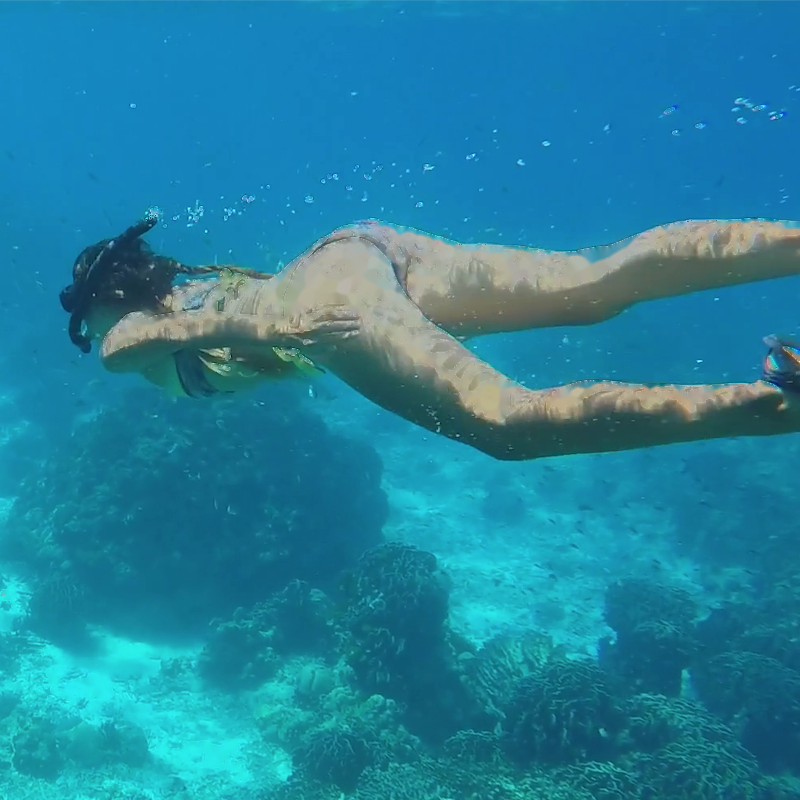
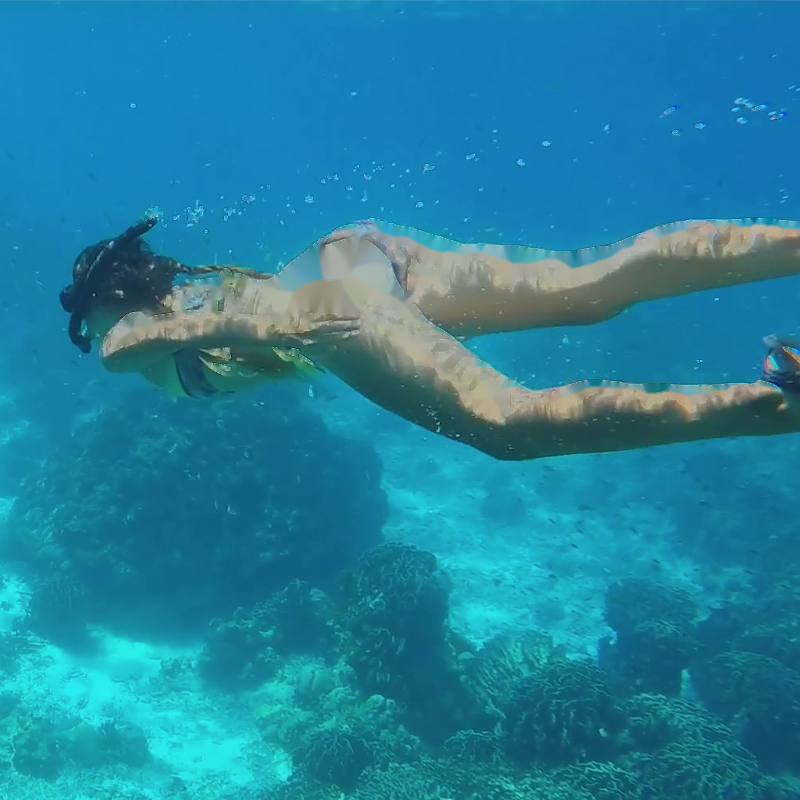
Image Quality Assesment Module added

diff --git a/analize.py b/analize.py
@@ -1,0 +1,38 @@
+#!/usr/bin/env python3
+# -*- coding: utf-8 -*-
+
+import numpy as np
+import dippykit as dip
+import cv2
+
+
+def display_images(images, text):
+	num = len(images)
+
+	dip.figure()
+	for i in range(num):
+		dip.subplot(1,num,i+1)
+		dip.title(text[i])
+		dip.imshow(images[i])
+
+	dip.show()
+
+def display_diff(im1,im2):
+	im_diff = cv2.cvtColor(im1,cv2.COLOR_BGR2GRAY) - cv2.cvtColor(im2,cv2.COLOR_BGR2GRAY)
+	dip.figure()
+	dip.imshow(im_diff)
+	dip.title('Difference image')
+	dip.show()
+
+def iqa_results(im1,im2):
+	print('The MSE is: {:.2f}'.format(dip.MSE(cv2.cvtColor(im1,cv2.COLOR_BGR2GRAY),cv2.cvtColor(im2,cv2.COLOR_BGR2GRAY))))
+	print('The PSNR is: {:.2f}'.format(dip.PSNR(cv2.cvtColor(im1,cv2.COLOR_BGR2GRAY),cv2.cvtColor(im2,cv2.COLOR_BGR2GRAY),np.amax(cv2.cvtColor(im1,cv2.COLOR_BGR2GRAY)))))
+
+
+if __name__ == "__main__":
+	original = dip.im_read('images/original.png')
+	result = dip.im_read('temp_images/result.png')
+	display_images([original, result], ['Original image','Result image'])
+	display_diff(original,result)
+	iqa_results(original, result)
+

diff --git a/Interpolation_4_pixels.py b/Interpolation_4_pixels.py
@@ -146,7 +146,7 @@ for i in range(np.shape(im_skin)[0] - 1):
             if num_pixels_for_average > 0: 
                 avg_pixel_value = aux_pixel_value/num_pixels_for_average
             elif num_pixels_for_average == 0:
-                avg_pixel_value = (255,0,0)#avg_skin_color #FOR BRIGHTER AREAS
+                avg_pixel_value = avg_skin_color #FOR BRIGHTER AREAS
 
                 mask[i][j] = 255
                 mask[i+1][j] = 255

diff --git a/inpainting.py b/inpainting.py
@@ -42,7 +42,7 @@ def reduce_mask(mask):
 
 if __name__ == "__main__":
 	image = cv2.imread('temp_images/result.png') #'images/UW_400.png'
-	mask = cv2.imread('temp_images/mask.png')
+	mask = cv2.imread('temp_images/binary_morf.png')
 	mask = cv2.cvtColor(mask, cv2.COLOR_BGR2GRAY)
 	#reduce_mask(mask)
 	output = inpaint(image, mask)
